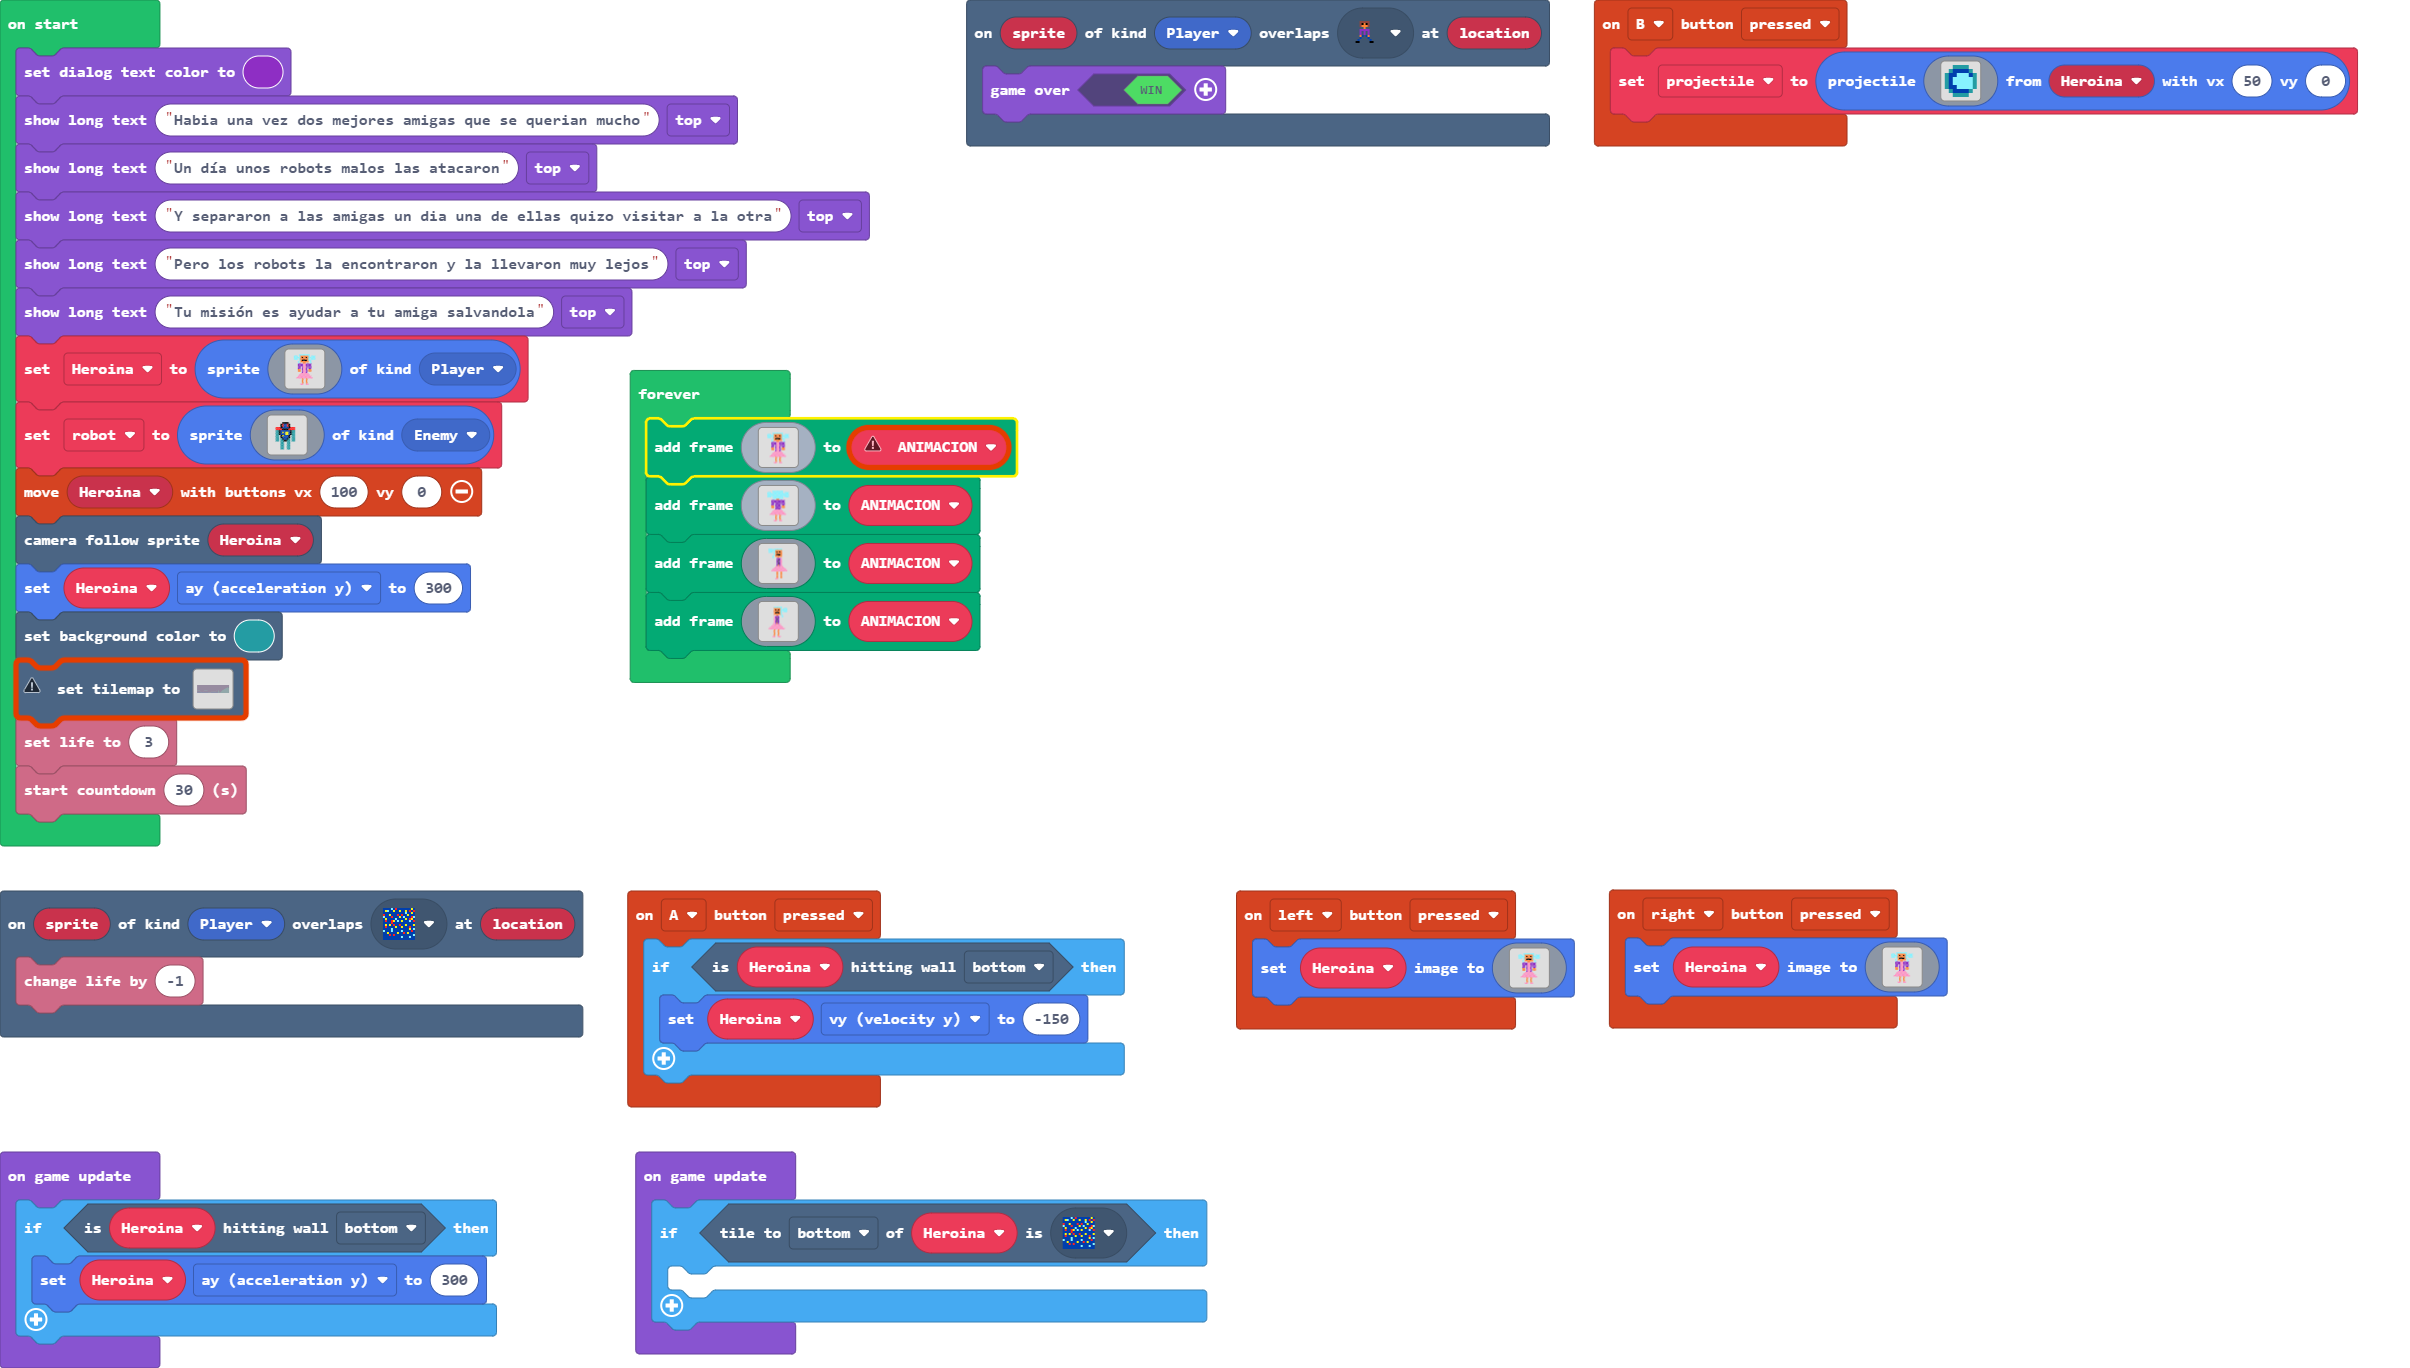
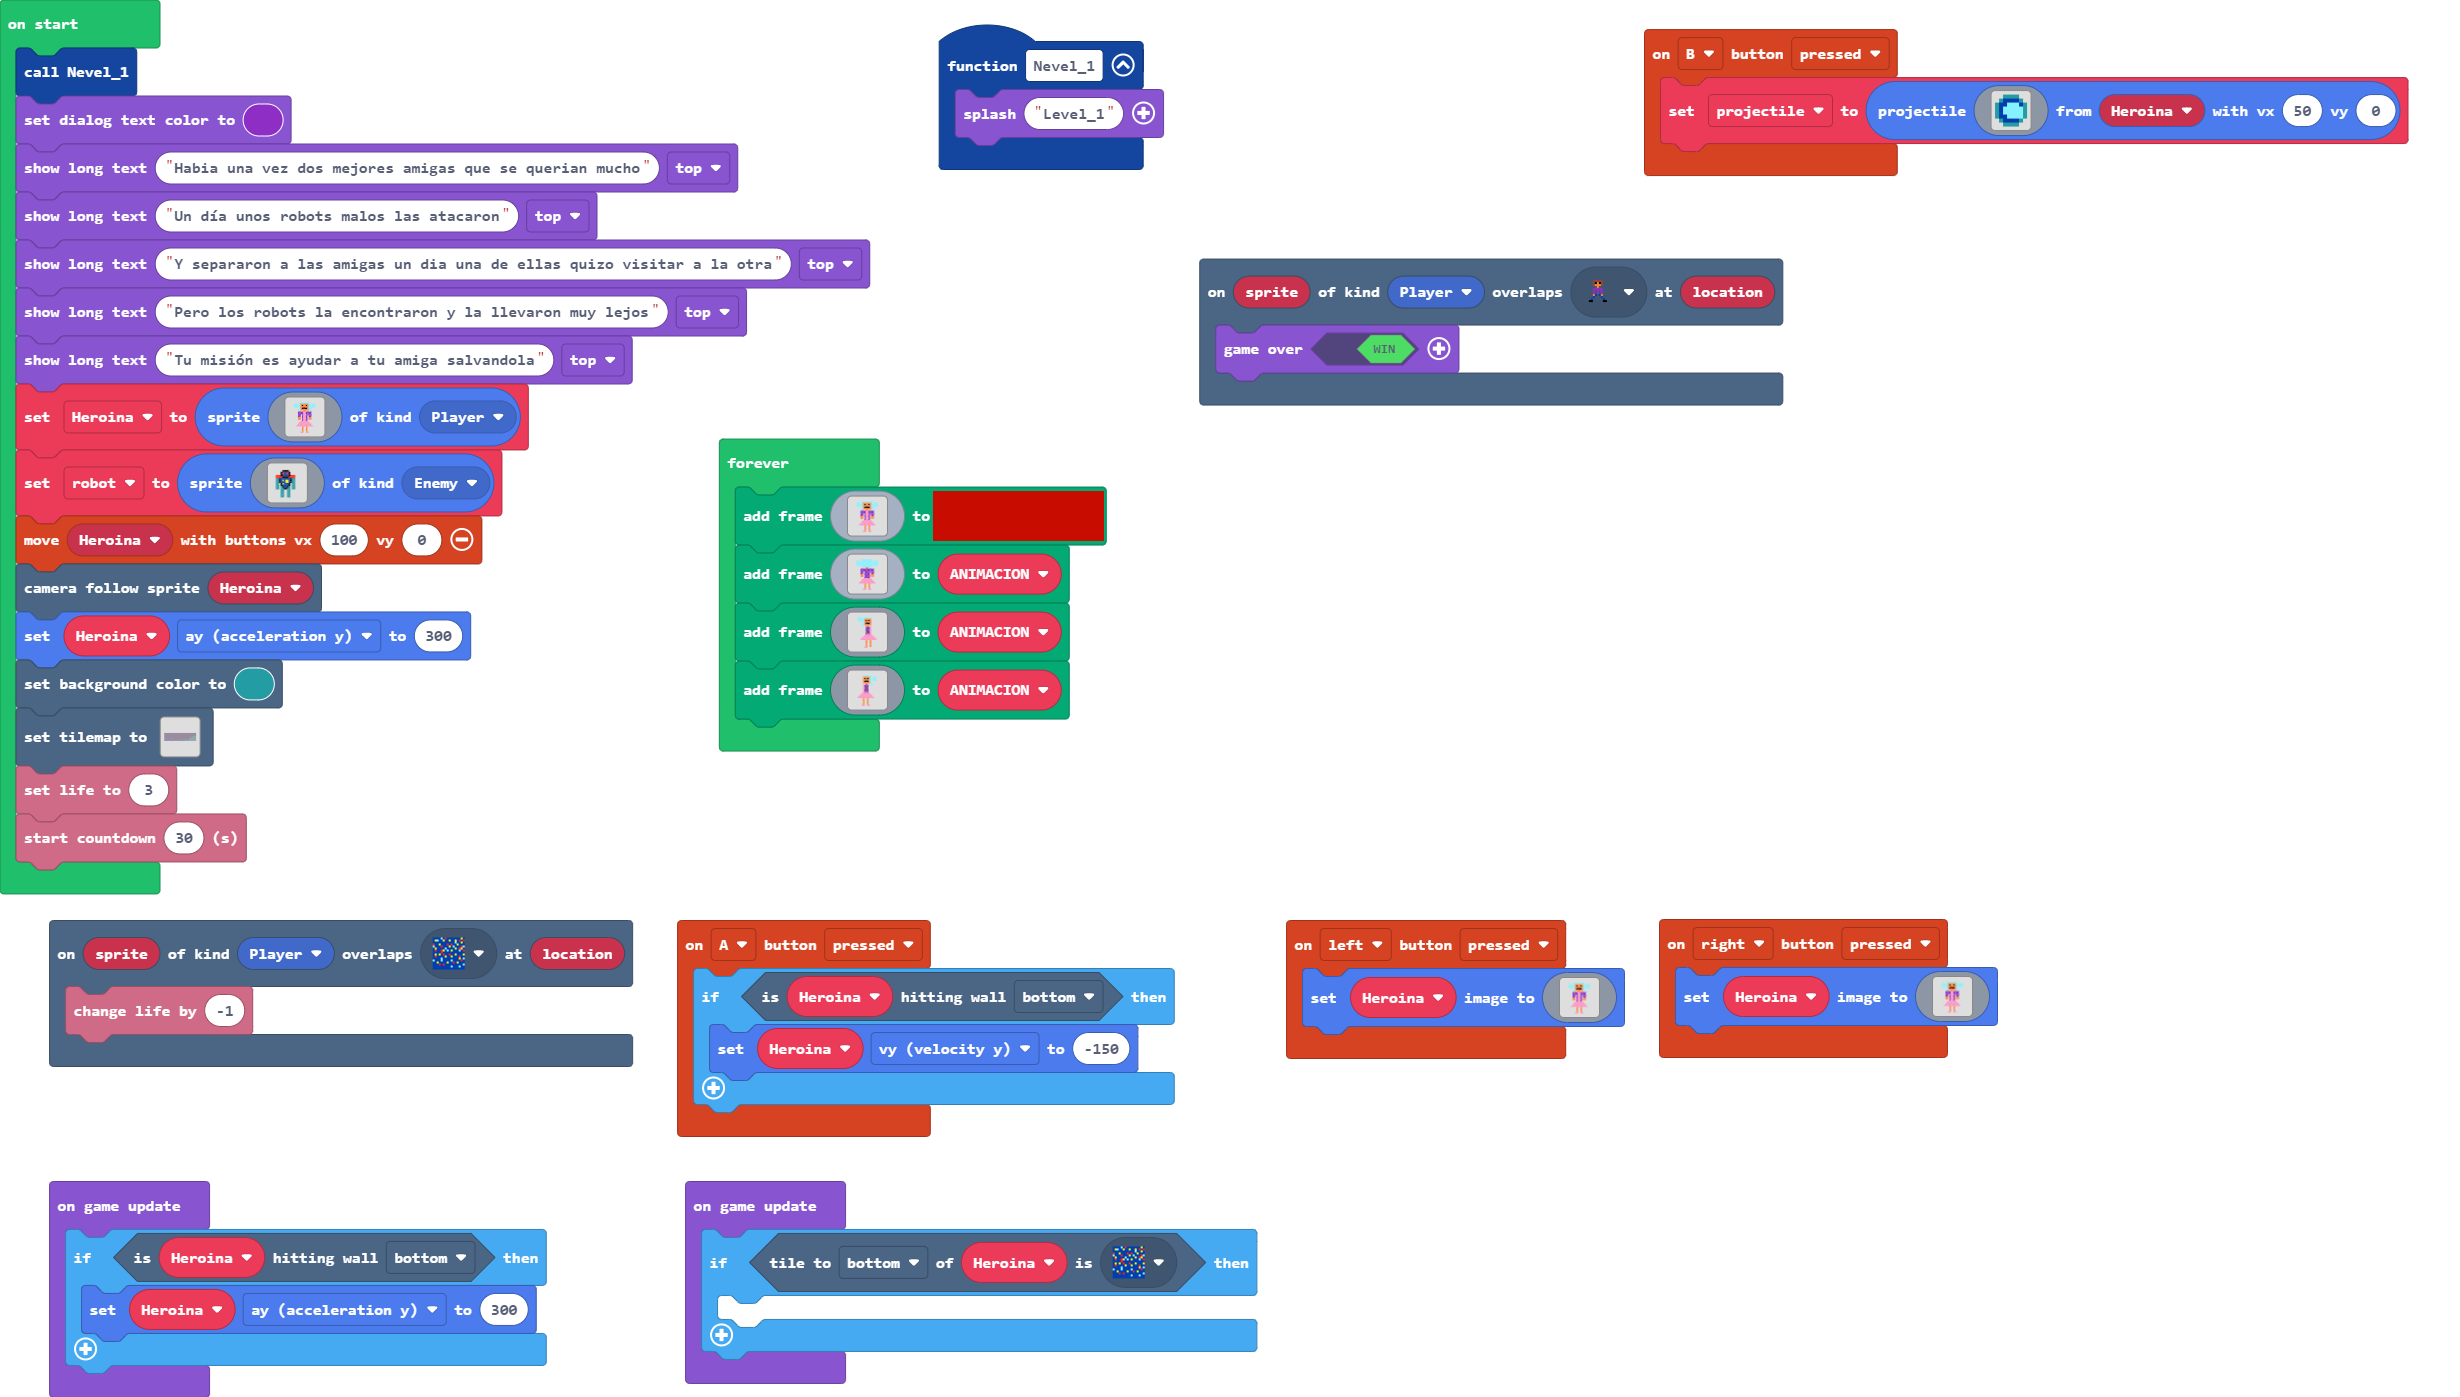
puse nuevos bloques

Changed region(s): [[0.0, 0.0, 0.8091, 1.0], [0.3734, 0.0, 0.9959, 0.1535], [0.4668, 0.1842, 0.7469, 0.307]]

diff --git a/main.ts b/main.ts
@@ -4,6 +4,9 @@ namespace SpriteKind {
 scene.onOverlapTile(SpriteKind.Player, myTiles.tile3, function (sprite, location) {
     game.over(true)
 })
+function Nevel_1 () {
+    game.splash("Level_1")
+}
 controller.B.onEvent(ControllerButtonEvent.Pressed, function () {
     projectile = sprites.createProjectileFromSprite(img`
         . . 6 6 6 6 . . 
@@ -82,6 +85,7 @@ controller.right.onEvent(ControllerButtonEvent.Pressed, function () {
 })
 let projectile: Sprite = null
 let Heroina: Sprite = null
+Nevel_1()
 game.setDialogTextColor(10)
 game.showLongText("Habia una vez dos mejores amigas que se querian mucho", DialogLayout.Top)
 game.showLongText("Un día unos robots malos las atacaron", DialogLayout.Top)
